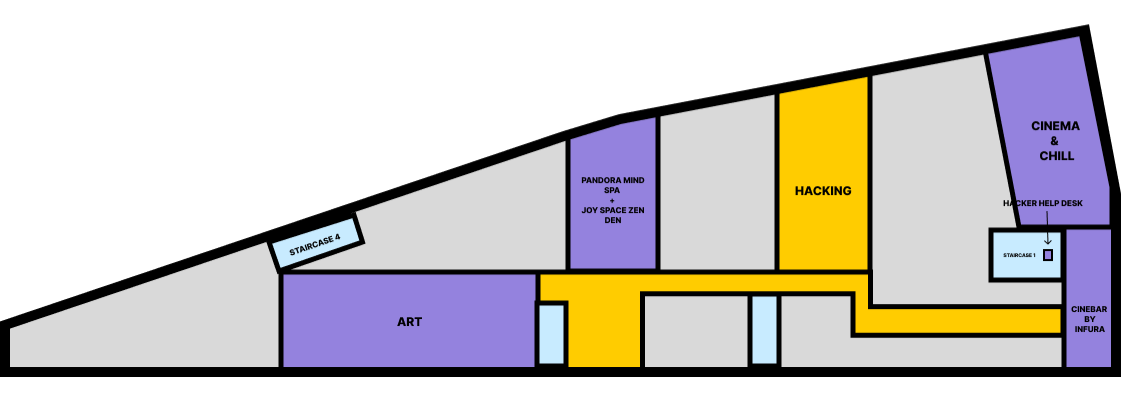
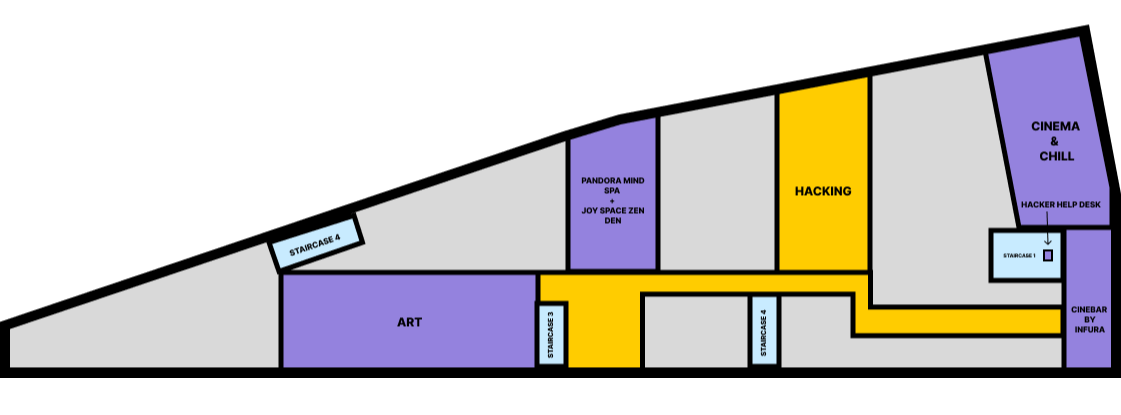
Update floor plans

diff --git a/src/pages/venue.jsx b/src/pages/venue.jsx
@@ -3,32 +3,17 @@ import React from "react";
 import groundFloor from "../images/groundFloor.png";
 import firstFloor from "../images/firstFloor.png";
 import secondFloor from "../images/secondFloor.png";
-import secondFloorSunday from "../images/secondFloor-sunday.png";
-// import thirdFloor from "../images/thirdFloor.png";
+import thirdFloor from "../images/thirdFloor.png";
 // import fourthFloor from "../images/fourthFloor.png";
 import fifthFloor from "../images/fifthFloor.png";
 
-const isSundayCheck = () => {
-  const date = new Date();
-  const day = date.getDate();
-  const month = date.getMonth() + 1;
-  const year = date.getFullYear();
-  if (day === 18 && month === 9 && year === 2022) {
-    return true;
-  } else {
-    return false;
-  }
-};
-
 const Venue = () => {
-  const [isSunday, setIsSunday] = React.useState(isSundayCheck());
-
   return (
     <Layout showEthDiamond={false}>
       <h1 className="my-4 underline text-secondary">(v)enue</h1>
       <div className="decorate-links flex flex-col items-center text-berlin-yellow mt-16">
         <div className="my-4 italic text-gray-300">
-          Gray marked areas and the4th floor are not available for ETHBerlin
+          Gray marked areas and the 4th floor are not available for ETHBerlin
         </div>
         <h2 className="text-xl lg:text-3xl  mb-4">Ground Floor / Floor 0</h2>
         <div className="relative mb-16 lg:mx-16">
@@ -39,30 +24,12 @@ const Venue = () => {
           <img src={firstFloor} alt="first floor"></img>
         </div>
         <h2 className="text-xl lg:text-3xl  mb-4"> Second Floor / Floor 2 </h2>
-        <div className="mb-4">
-          <button
-            className={`bg-berlin-yellow ${
-              isSunday && "opacity-50"
-            } text-gray-800 px-4 py-2 mx-4 rounded-xl`}
-            onClick={() => setIsSunday(false)}
-          >
-            Friday & Saturday
-          </button>
-          <button
-            className={`bg-berlin-yellow ${
-              !isSunday && "opacity-50"
-            } text-gray-800 px-4 py-2 mx-4 rounded-xl`}
-            onClick={() => setIsSunday(true)}
-          >
-            Sunday
-          </button>
-        </div>
         <div className="relative mb-16 lg:mx-16">
-          {isSunday ? (
-            <img src={secondFloor} alt="second floor"></img>
-          ) : (
-            <img src={secondFloorSunday} alt="second floor"></img>
-          )}
+          <img src={secondFloor} alt="second floor"></img>
+        </div>
+        <h2 className="text-xl lg:text-3xl  mb-4"> Third Floor / Floor 3 </h2>
+        <div className="relative mb-16 lg:mx-16">
+          <img src={thirdFloor} alt="third floor"></img>
         </div>
         <h2 className="text-xl lg:text-3xl  mb-4"> Fifth Floor / Floor 5 </h2>
         <div className="relative mb-16 lg:mx-16">

diff --git a/src/pages/program.jsx b/src/pages/program.jsx
@@ -5,7 +5,6 @@ import groundFloor from "../images/groundFloor.png";
 import thirdFloor from "../images/thirdFloor.png";
 import firstFloor from "../images/firstFloor.png";
 import secondFloor from "../images/secondFloor.png";
-import secondFloorSunday from "../images/secondFloor-sunday.png";
 import fifthFloor from "../images/fifthFloor.png";
 import "../styles/modal.css";
 import "../styles/rooms/groundFloor.css";
